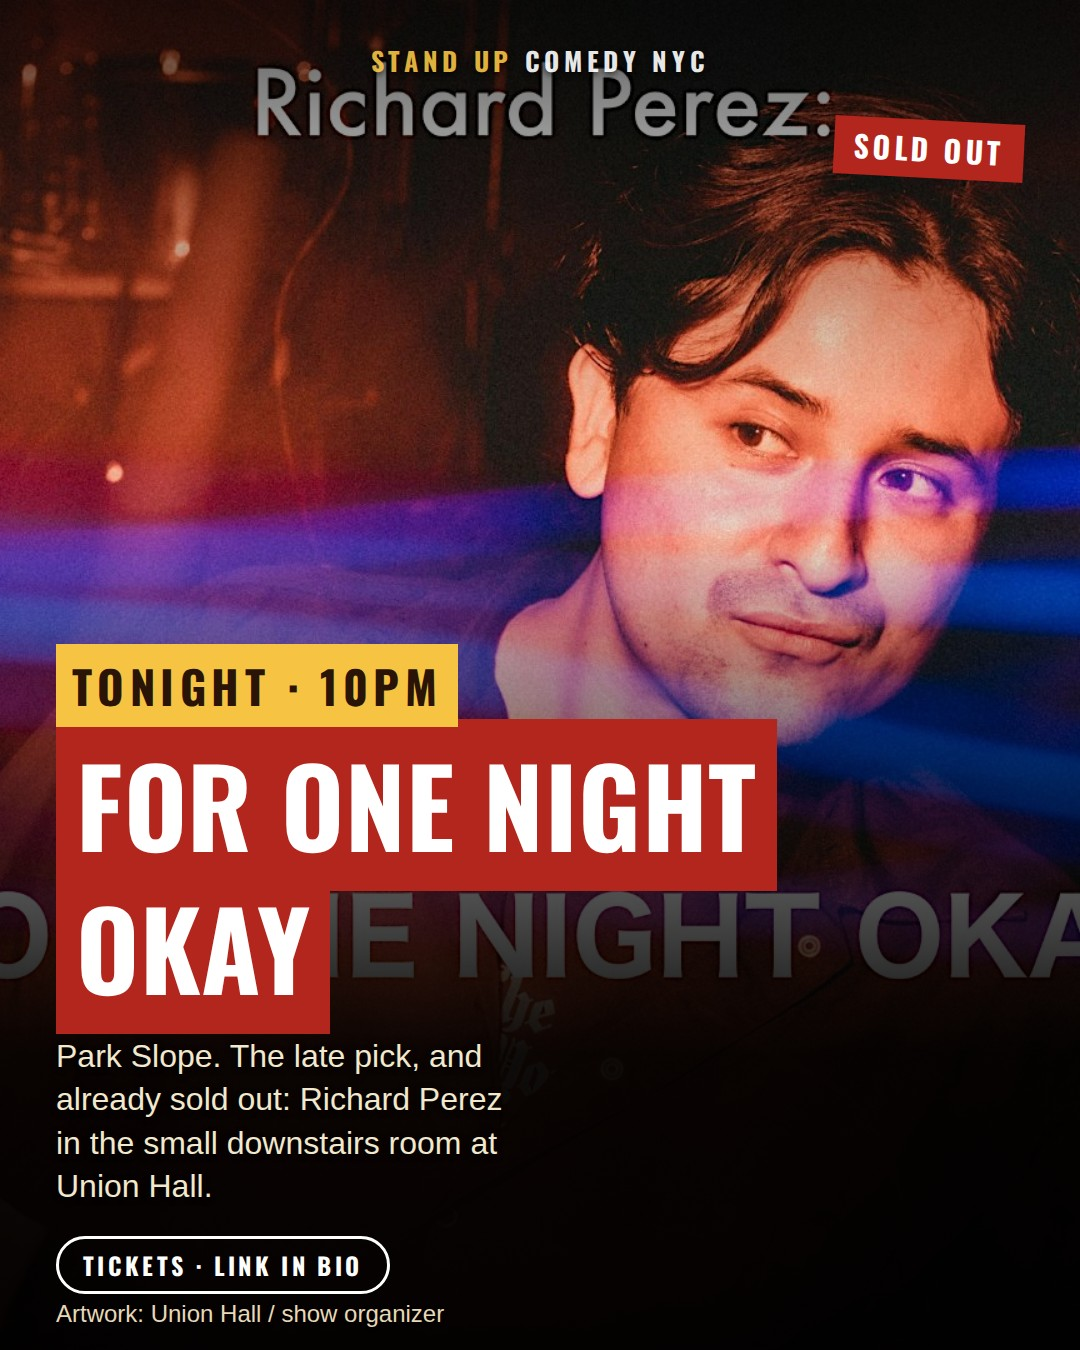
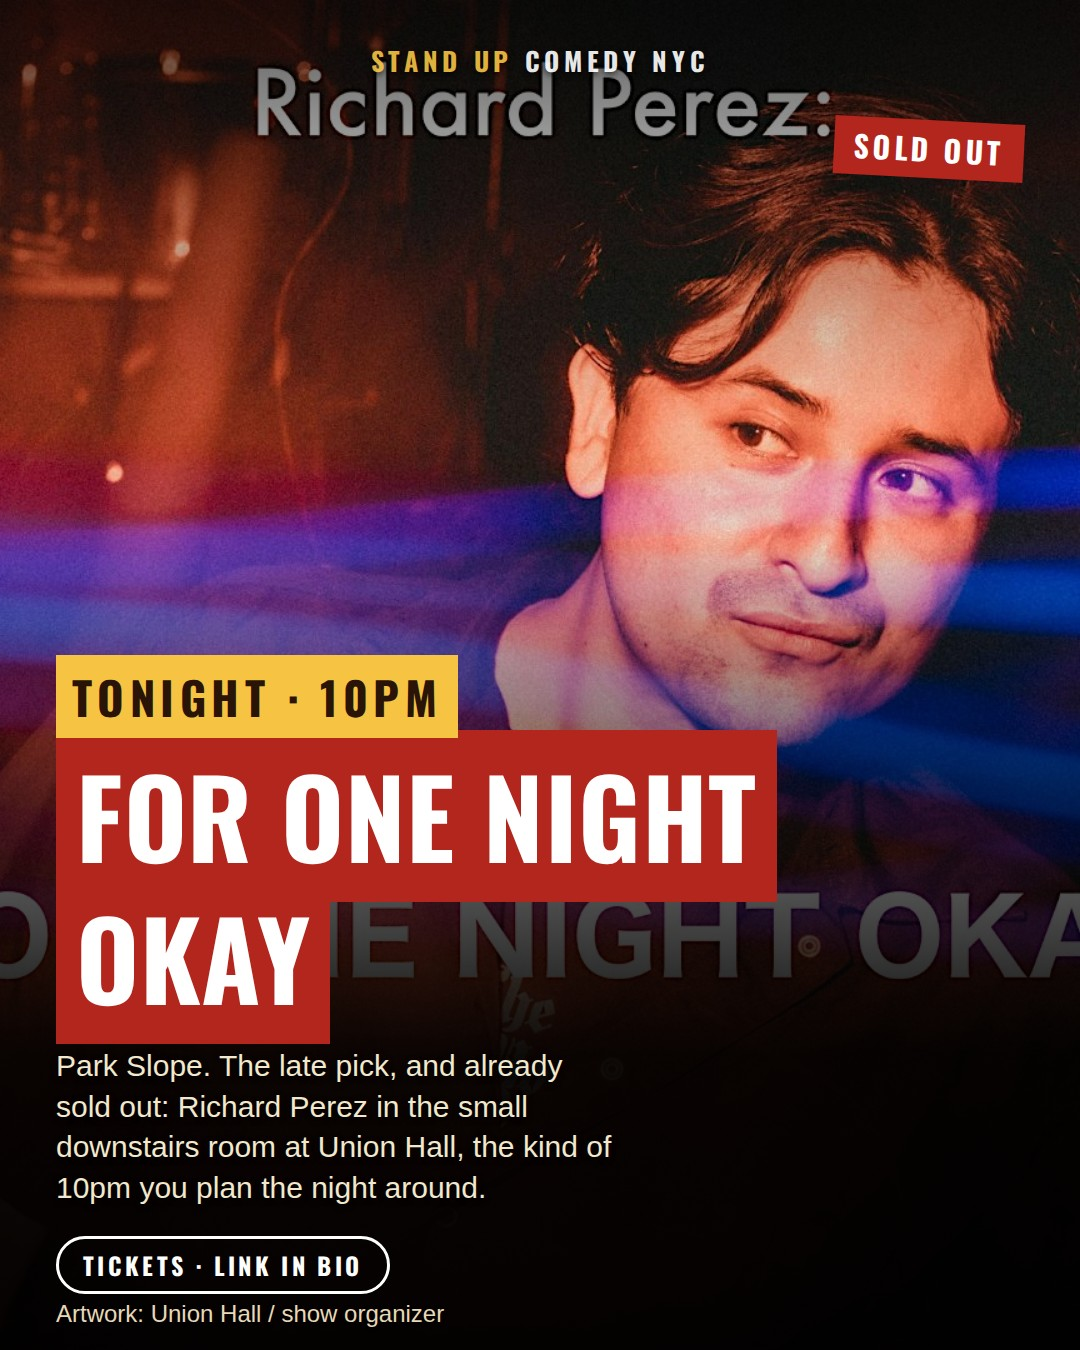
IG photo cards: room for the full blurb

Changed region(s): [[0.0306, 0.4667, 0.7333, 0.9022]]

diff --git a/scripts/ig-card.js b/scripts/ig-card.js
@@ -99,7 +99,7 @@ body:before{content:'';position:absolute;inset:0;background:radial-gradient(elli
 .hl{margin-top:auto;font:700 var(--hs,84px)/1.32 Oswald;text-transform:uppercase;letter-spacing:.005em}
 .hl i{font-style:normal;background:#b3261e;color:#fff;padding:4px 20px 8px;-webkit-box-decoration-break:clone;box-decoration-break:clone}
 .hl i.gold{background:#f6c343;color:#2a1408;font-size:.42em;letter-spacing:.12em;padding:8px 16px;position:relative;top:-.35em}
-.dek{margin-top:18px;font:400 32px/1.35 Arial,sans-serif;color:#f1e8ce;text-shadow:0 2px 6px #000c;max-width:26ch}
+.dek{margin-top:18px;font:400 30px/1.35 Arial,sans-serif;color:#f1e8ce;text-shadow:0 2px 6px #000c;max-width:34ch}
 .pill{margin-top:28px;display:inline-block;align-self:flex-start;border:3px solid #fff;color:#fff;font:700 24px/1 Oswald;letter-spacing:.14em;text-transform:uppercase;padding:14px 24px;border-radius:40px;text-shadow:none}
 .tag2{position:absolute;top:120px;right:56px;background:#b3261e;color:#fff;font:700 30px/1 Oswald;letter-spacing:.12em;text-transform:uppercase;padding:14px 20px;transform:rotate(3deg)}
 .tag2.gold{background:#f6c343;color:#2a1408}
@@ -109,7 +109,7 @@ body:before{content:'';position:absolute;inset:0;background:radial-gradient(elli
 
 const titleSize = (t) => { const byLen = t.length > 60 ? 88 : t.length > 40 ? 104 : t.length > 24 ? 128 : t.length > 14 ? 150 : 176; const longest = Math.max(...t.split(/\s+/).map((w) => w.length)); const byWord = Math.floor(800 / (0.56 * longest)); return Math.min(byLen, byWord); };
 const rowSize = (n, maxLen) => n <= 2 ? (maxLen > 30 ? 84 : 110) : n <= 3 ? (maxLen > 30 ? 72 : 96) : n <= 4 ? (maxLen > 30 ? 58 : 76) : (maxLen > 30 ? 48 : 60);
-const sub = (p) => { const d = String(p.description || '').trim(); const m = d.match(/^[^.!?]{12,130}[.!?]/); if (m) return m[0]; if (d.length <= 12) return ''; const first = (d.match(/^[^.!?]+/) || [d])[0]; const head = first.slice(0, 132); let cut = -1; for (const sep of [' with ', ' featuring ', ' plus ', ', ', ' and ']) { const i = head.lastIndexOf(sep); if (i > 40 && i > cut) cut = i; } return (cut > 0 ? head.slice(0, cut) : head.slice(0, head.lastIndexOf(' '))).replace(/[,;:\s]+$/, '') + '.'; };
+const sub = (p) => { const d = String(p.description || '').trim(); const m = d.match(/^[^.!?]{12,180}[.!?]/); if (m) return m[0]; if (d.length <= 12) return ''; const first = (d.match(/^[^.!?]+/) || [d])[0]; const head = first.slice(0, 182); let cut = -1; for (const sep of [' with ', ' featuring ', ' plus ', ', ', ' and ']) { const i = head.lastIndexOf(sep); if (i > 40 && i > cut) cut = i; } return (cut > 0 ? head.slice(0, cut) : head.slice(0, head.lastIndexOf(' '))).replace(/[,;:\s]+$/, '') + '.'; };
 const dek = (p) => { const b = sub(p) || p.price_label; const v = String(p.venue).replace(/^the\s+/i, ''); return new RegExp(v.replace(/[.*+?^${}()|[\]\\]/g, '\\$&'), 'i').test(b) ? `${hoodOf(p)}. ${b}` : `${p.venue}, ${hoodOf(p)}. ${b}`; };
 
 function pickCard(p) {
